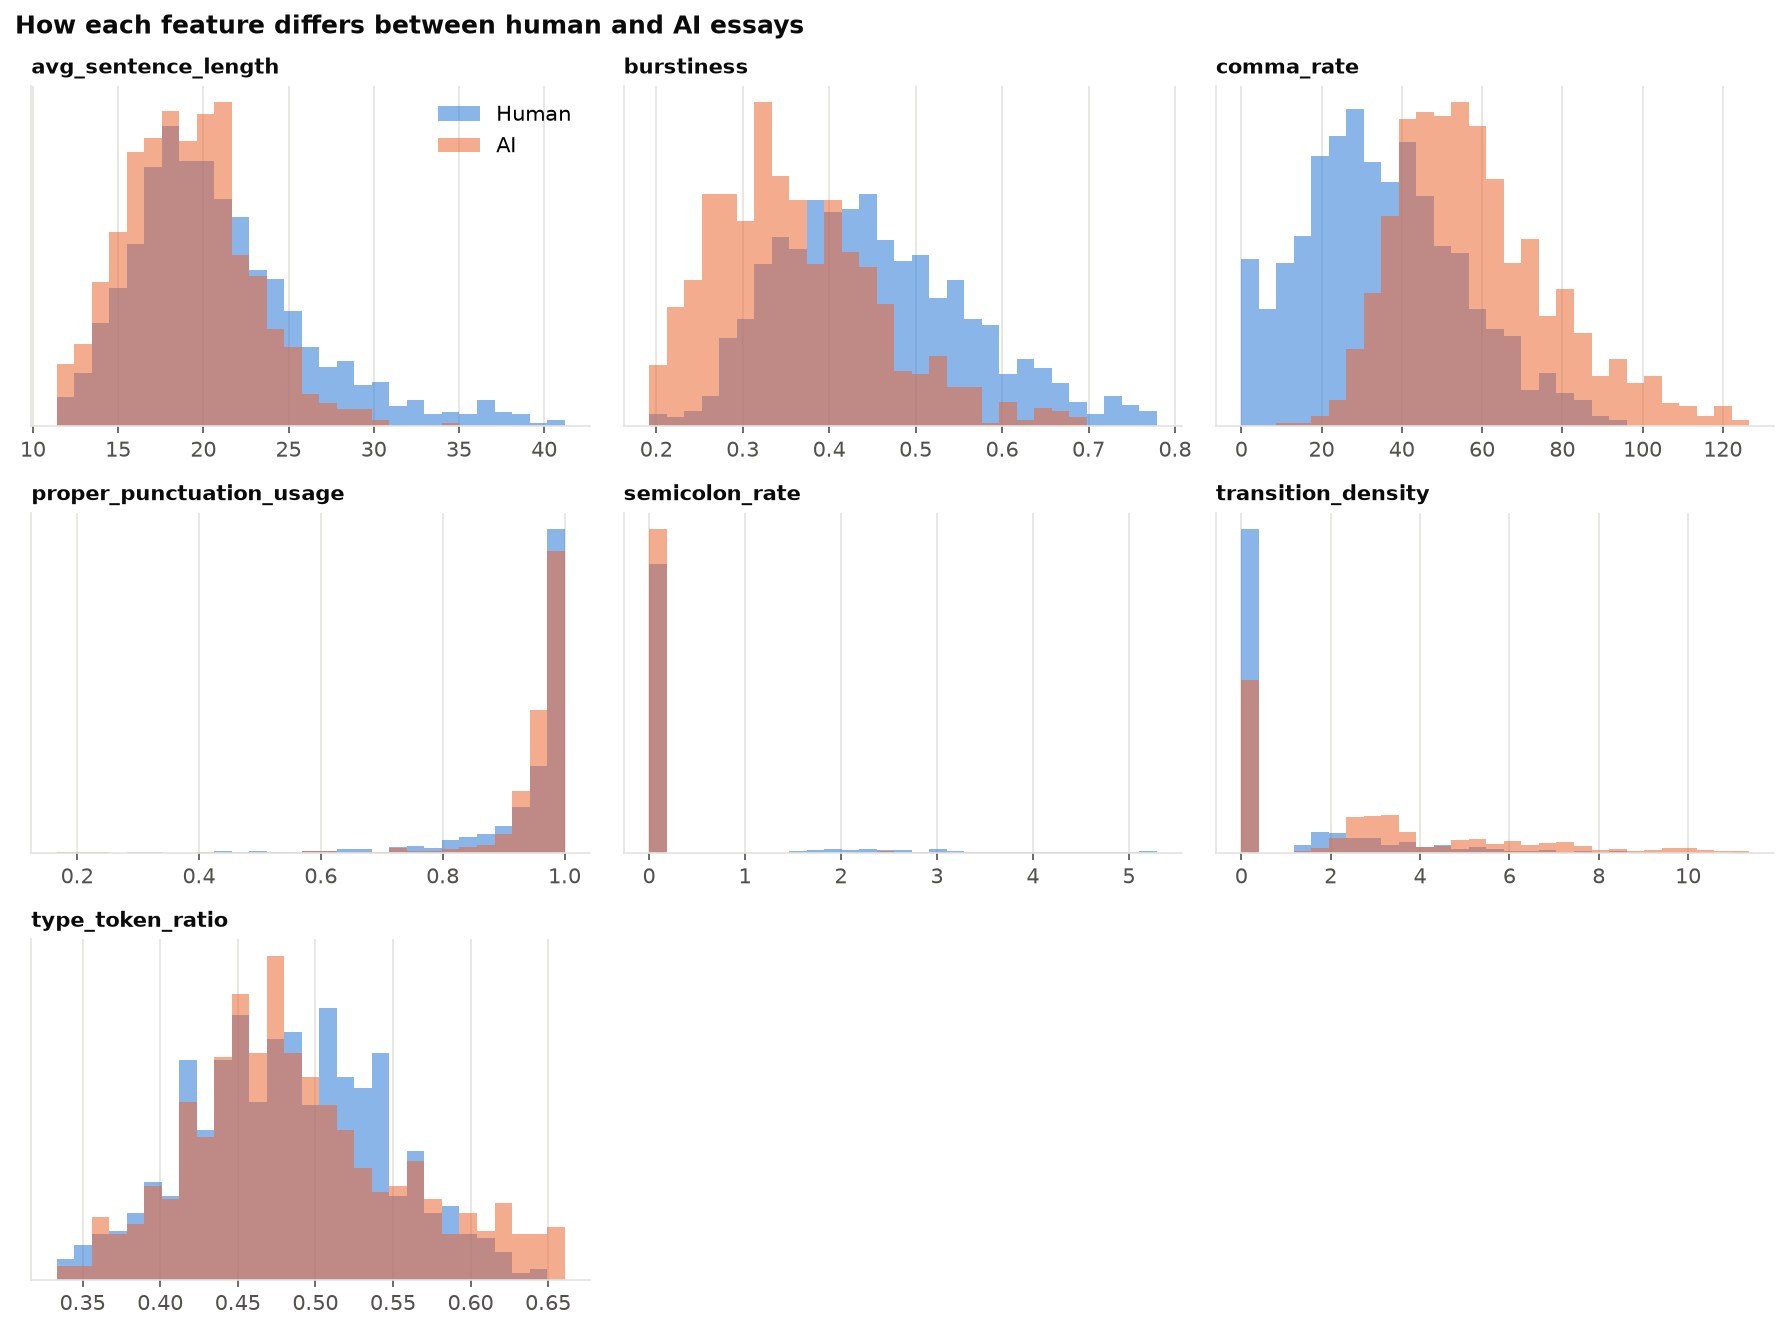
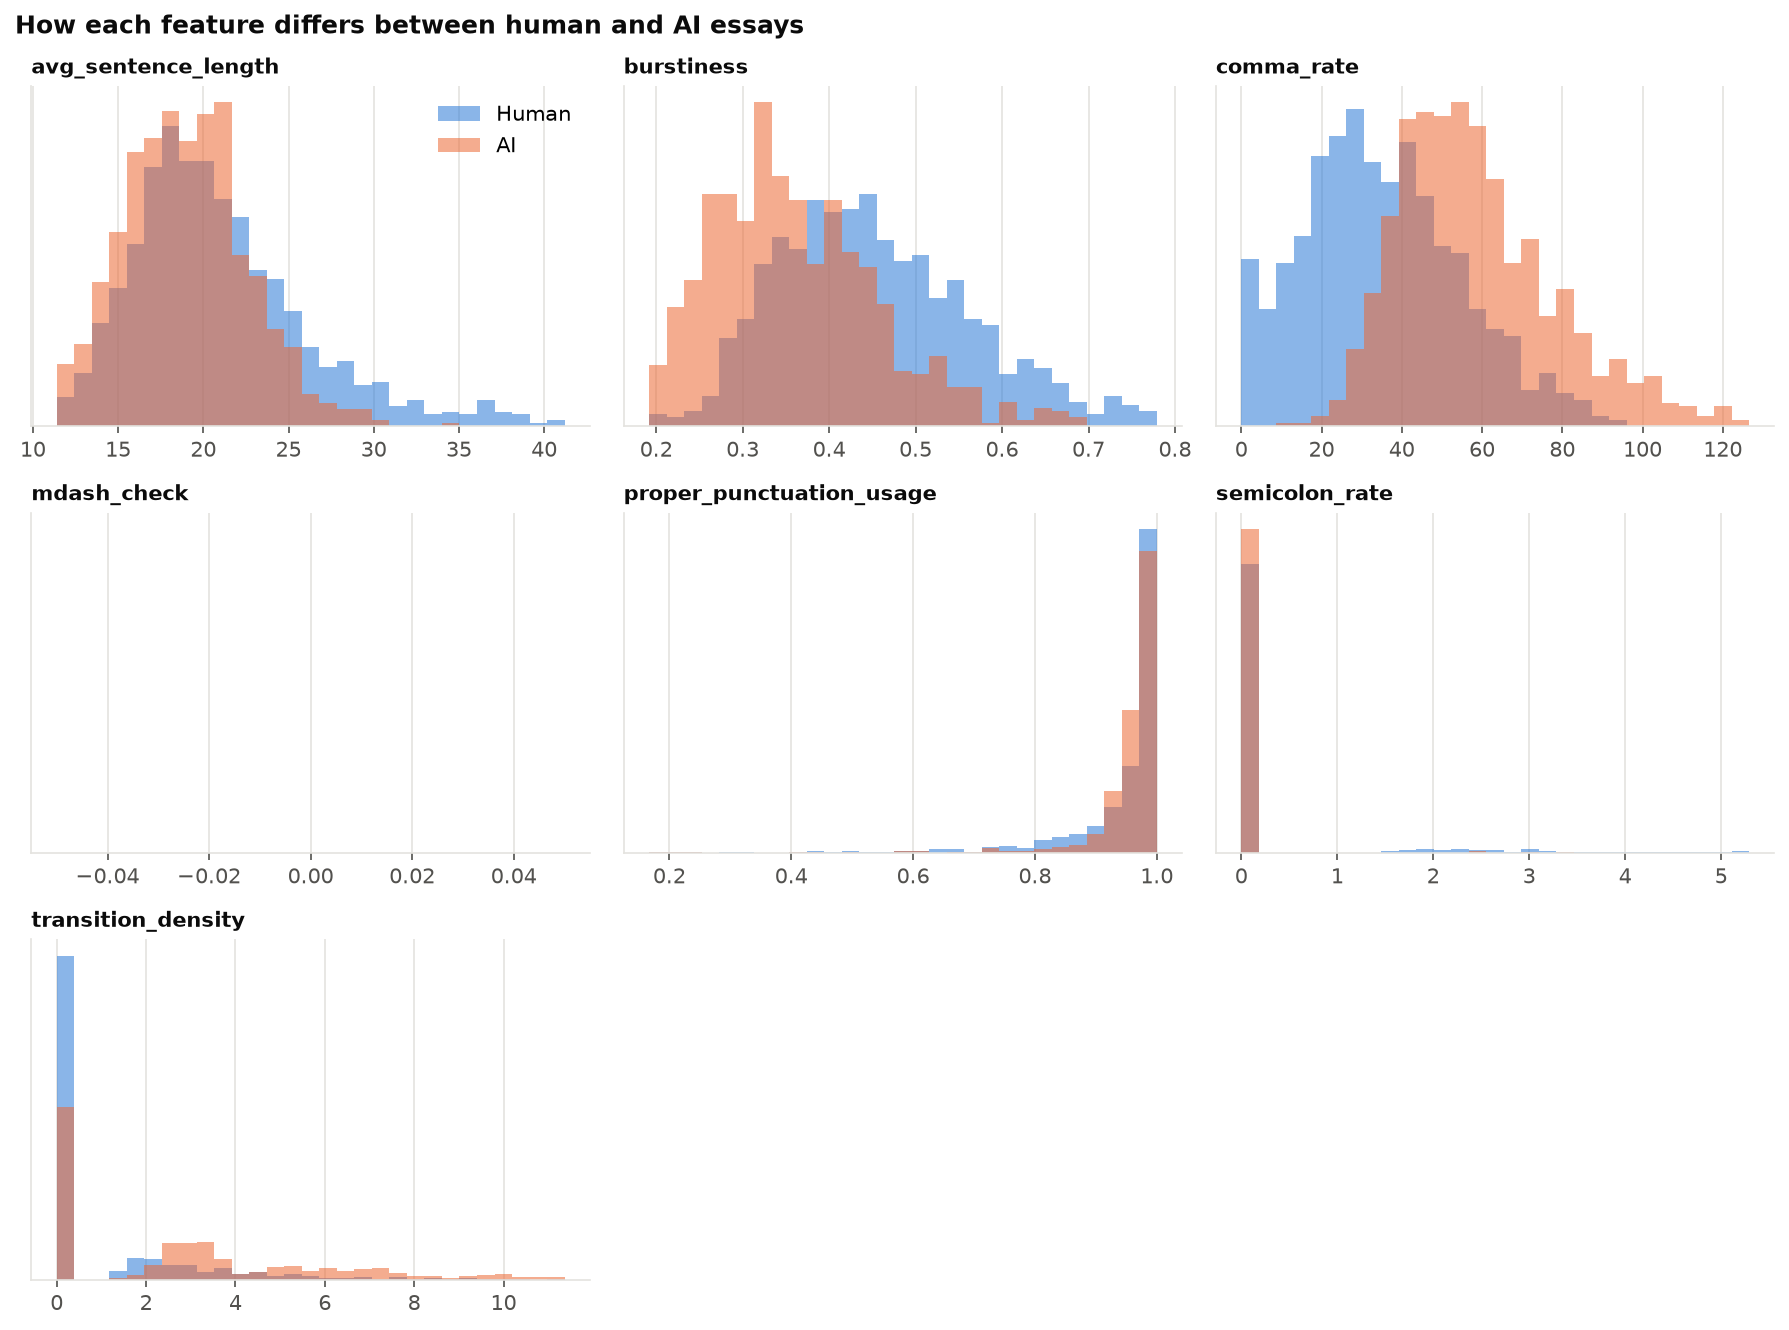
adjusted features list
commented out type_token_ratio, as it was heavily influencing the results and decreasing accuracy. Added mdash checker, and it increased the accuracy more than before adding the two new features.

diff --git a/features/features.py b/features/features.py
@@ -142,6 +142,17 @@ def transition_density(text: str) -> float | None:   # moreover/furthermore/etc 
     count = sum(text.lower().count(word) for word in transition_words)
     return count / total_words * 1000
 
+
+## Check for M-dashes
+def mdash_check(text: str) -> float | None:
+    """Check if the text contains M-dashes."""
+    total_words = count_words(text)
+    if total_words < MIN_WORDS_FOR_RATE:
+        return None
+
+    return text.count("—") / total_words * 1000
+
+"""
 def type_token_ratio(text: str) -> float | None:     # unique/total over first 300 words
     "The number of unique words in the first 300 words divided by the total number of words in the first 300 words."
     
@@ -157,7 +168,7 @@ def type_token_ratio(text: str) -> float | None:     # unique/total over first 3
             unique_words.add(word)
 
     return len(unique_words) / len(first_300_words)
-
+"""
 
 
 
@@ -169,8 +180,8 @@ FEATURES = {
     "semicolon_rate": semicolon_rate,
     "avg_sentence_length": avg_sentence_length,
     "transition_density": transition_density,                    ## Measures the density of transition words in the text
-    "type_token_ratio": type_token_ratio,                          ## Measures the ratio of unique words to total words in the first 300 words
-
+    #"type_token_ratio": type_token_ratio,                          ## Measures the ratio of unique words to total words in the first 300 words
+    "mdash_check": mdash_check,                                      ## Checks for the presence of M-dashes in the text
 
 
 }
